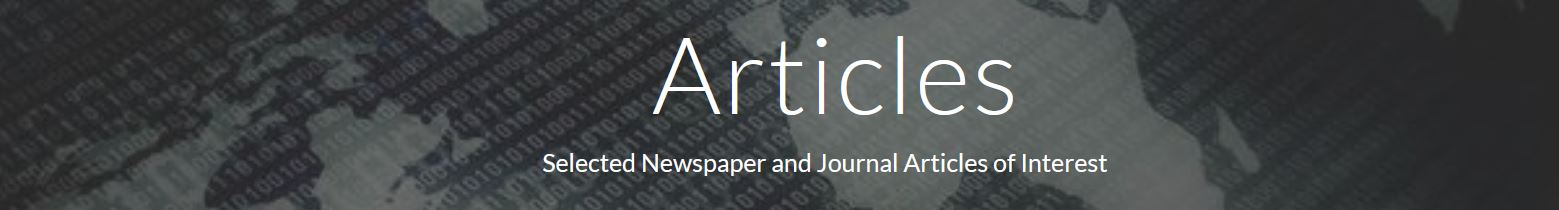
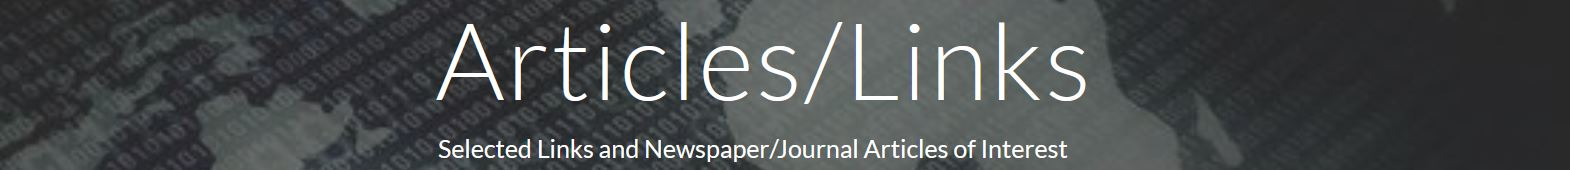
Add files via upload

diff --git a/Articles.html b/Articles.html
@@ -1,11 +1,12 @@
 <!doctype  html >
 <!-- ********************************************************************************************* 
-     ***                    ARTICLES  PAGE                                                     ***      
+     ***                    ARTICLES and Links  PAGE                                                     ***      
      ***                                                                                       ***   
      ***  2021/06/21                                                                           *** 
      ******************************************************************************************** -->
 <html lang="en"> 
-<!-- 06/19/2021  Initial Page >
+<!-- 11/14/2021  Added Links  ->
+<!-- 06/19/2021  Initial Page ->
 
 
 <!------------------------------------------------------------------------------------------>
@@ -55,7 +56,7 @@
 		 <a href="index.html"  >							Home</a>
 		 <a href="Advising.html" >							Advising </a>
 		 <a href="CoolClips.html">							Cool Clips</a>
-		 <a href="Articles.html" ><strong>					Articles </strong> </a>
+		 <a href="Articles.html" ><strong>					Articles/Links </strong> </a>
 		 <a href="Bookshelf.html" >							Bookshelf</a>
 		 <a href="https://aptokash.github.io/Blogs/" > 		Blogs </a>
 		 <a href="AboutMe.html" >							About Me</a>
@@ -64,6 +65,41 @@
 
 
 <!---------  marist Links  -------->		
+<!---------  careers         -------->	
+ <div class="block2" ->
+	<strong> Jobs & Careers    </strong> 	
+	<ul style="list-style-type:none;">
+	
+	    <li> <a href="https://www.cyberseek.org/heatmap.html">   
+			Supply/Demand Heat Map of Cybersurity Job Opportunities </a>- Cyberseek</a>
+
+	    <li> <a href="https://niccs.cisa.gov/workforce-development/cyber-career-pathways?selected-role=OM-DTA-001">   
+			Cyber Career Pathways Tool ( Cyber Job Opportunities) </a>- NICSS</a>
+			<br><br>
+
+		
+	    <li> <a href=
+		   "https://getpocket.com/explore/item/your-resume-is-a-waste-of-time-8-better-ways-to-get-hired-for-the-job-you-want?utm_source=pocket-newtab">   
+			8 Better Ways to Get Hired </a>- GetPocket</a>
+
+	    <li> <a href=	"https://www.forbes.com/sites/carminegallo/2020/11/01/watch-bill-gates-give-brilliant-30-second-answers-to-common-job-interview-questions/?utm_source=pocket-newtab&sh=3f1e57297e40">   
+			Bill Gates gives answer to Job Interview Questions  </a>- Forbes 
+
+	    <li> <a href="https://www.exitcertified.com/blog/top-in-demand-it-skills">   
+			10 Important IT Skills for 2020 </a> - ExitCertified
+
+	    <li> <a href="https://www.businesswatchnetwork.com/articles/5791-it-certs-paying-the-highest-premiums-today?emtkn=andrew.tokash@marist.edu&referral=newsletter&utm_campaign=TechWatch&utm_source=html&utm_medium=email&utm_content=newsletter">   
+        10 IT certifications paying the highest premiums today </a> - Business Watch 
+
+	    <li> <a href="https://spectrum.ieee.org/the-institute/ieee-member-news/software-engineering-grads-lack-the-skills-startups-need">   
+			Software engineering grads lack the skills startups need </a>- IEEE Spectrum
+	    
+	</ul>
+</div>
+
+
+
+
 	
 <!---------  Cyber        -------->	
  <div class="block1" ->
@@ -170,25 +206,3 @@
 	</div 	
 	
 	
-<!---------  careers         -------->	
- <div class="block1" ->
-	<strong> Jobs & Careers    </strong> 	
-	<ul style="list-style-type:none;">
-	
-	    <li> <a href="https://getpocket.com/explore/item/your-resume-is-a-waste-of-time-8-better-ways-to-get-hired-for-the-job-you-want?utm_source=pocket-newtab">   
-			8 Better Ways to Get Hired </a>-GetPocket</a>
-
-	    <li> <a href=	"https://www.forbes.com/sites/carminegallo/2020/11/01/watch-bill-gates-give-brilliant-30-second-answers-to-common-job-interview-questions/?utm_source=pocket-newtab&sh=3f1e57297e40">   
-			Bill Gates gives answer to Job Interview Questions  </a>- Forbes 
-
-	    <li> <a href="https://www.exitcertified.com/blog/top-in-demand-it-skills">   
-			10 Important IT Skills for 2020 </a> - ExitCertified
-
-	    <li> <a href="https://www.businesswatchnetwork.com/articles/5791-it-certs-paying-the-highest-premiums-today?emtkn=andrew.tokash@marist.edu&referral=newsletter&utm_campaign=TechWatch&utm_source=html&utm_medium=email&utm_content=newsletter">   
-        10 IT certifications paying the highest premiums today </a> Business Watch 
-
-	    <li> <a href="https://spectrum.ieee.org/the-institute/ieee-member-news/software-engineering-grads-lack-the-skills-startups-need">   
-			Software engineering grads lack the skills startups need </a>- IEEE Spectrum
-	    <li> <a href="
-	</ul>
-</div>

diff --git a/CoolClips.html b/CoolClips.html
@@ -61,7 +61,7 @@
 		 <a href="index.html"  >							Home</a>
 		 <a href="Advising.html" >							Advising </a>
 		 <a href="CoolClips.html"><strong>					Cool Clips </strong></a>
-		 <a href="Articles.html" >							Articles </a>
+		 <a href="Articles.html" >							Articles/Links </a>
 		 <a href="Bookshelf.html" >							Bookshelf</a>
 		 <a href="https://aptokash.github.io/Blogs/" > 		Blogs </a>
 		 <a href="AboutMe.html" >							About Me</a>

diff --git a/index.html b/index.html
@@ -54,7 +54,7 @@
 		 <a href="index.html" ><strong>					 	Home </strong></a>
 		 <a href="Advising.html" >							Advising</a>
 		 <a href="CoolClips.html" >							Cool Clips</a>
-		 <a href="Articles.html" >							Articles</a>
+		 <a href="Articles.html" >							Articles/Links</a>
 		 <a href="Bookshelf.html" > 						Bookshelf </a>
 		 <a href="https://aptokash.github.io/Blogs/" > 		Blogs </a>
 		 <a href="AboutMe.html" >							About Me</a>

diff --git a/AboutMe.html b/AboutMe.html
@@ -72,7 +72,7 @@
 		 <a href="index.html"  >							Home</a>
 		 <a href="Advising.html" >							Advising</a>
 		 <a href="CoolClips.html" >							Cool Clips</a>
-		 <a href="Articles.html" >							Articles</a>
+		 <a href="Articles.html" >							Articles/Links</a>
 		 <a href="Bookshelf.html" >							Bookshelf</a>
 		 <a href="https://aptokash.github.io/Blogs/" > 		Blogs </a>
 		 <a href="AboutMe.html" ><strong> 					About Me</strong></a> 

diff --git a/Advising.html b/Advising.html
@@ -50,7 +50,7 @@
 		 <a href="index.html"  >							Home</a>
 		 <a href="Advising.html" ><strong>					Advising </strong></a>
 		 <a href="CoolClips.html">							Cool Clips</a>
-		 <a href="Articles.html" >							Articles</a>
+		 <a href="Articles.html" >							Articles/Links</a>
 		 <a href="Bookshelf.html" >							Bookshelf</a>
 		 <a href="https://aptokash.github.io/Blogs/" > 		Blogs </a>
 		 <a href="AboutMe.html" >							About Me</a>

diff --git a/Bookshelf.html b/Bookshelf.html
@@ -46,7 +46,7 @@
 		 <a href="index.html"  >							Home</a>
 		 <a href="Advising.html" >							Advising</a>
 		 <a href="CoolClips.html">							Cool Clips</a>
-		 <a href="Articles.html" >							Articles</a>
+		 <a href="Articles.html" >							Articles/Links</a>
 		 <a href="Bookshelf.html" ><strong>					Bookshelf</strong></a>
 		 <a href="https://aptokash.github.io/Blogs/" > 		Blogs </a>
 		 <a href="AboutMe.html" >							About Me</a>
